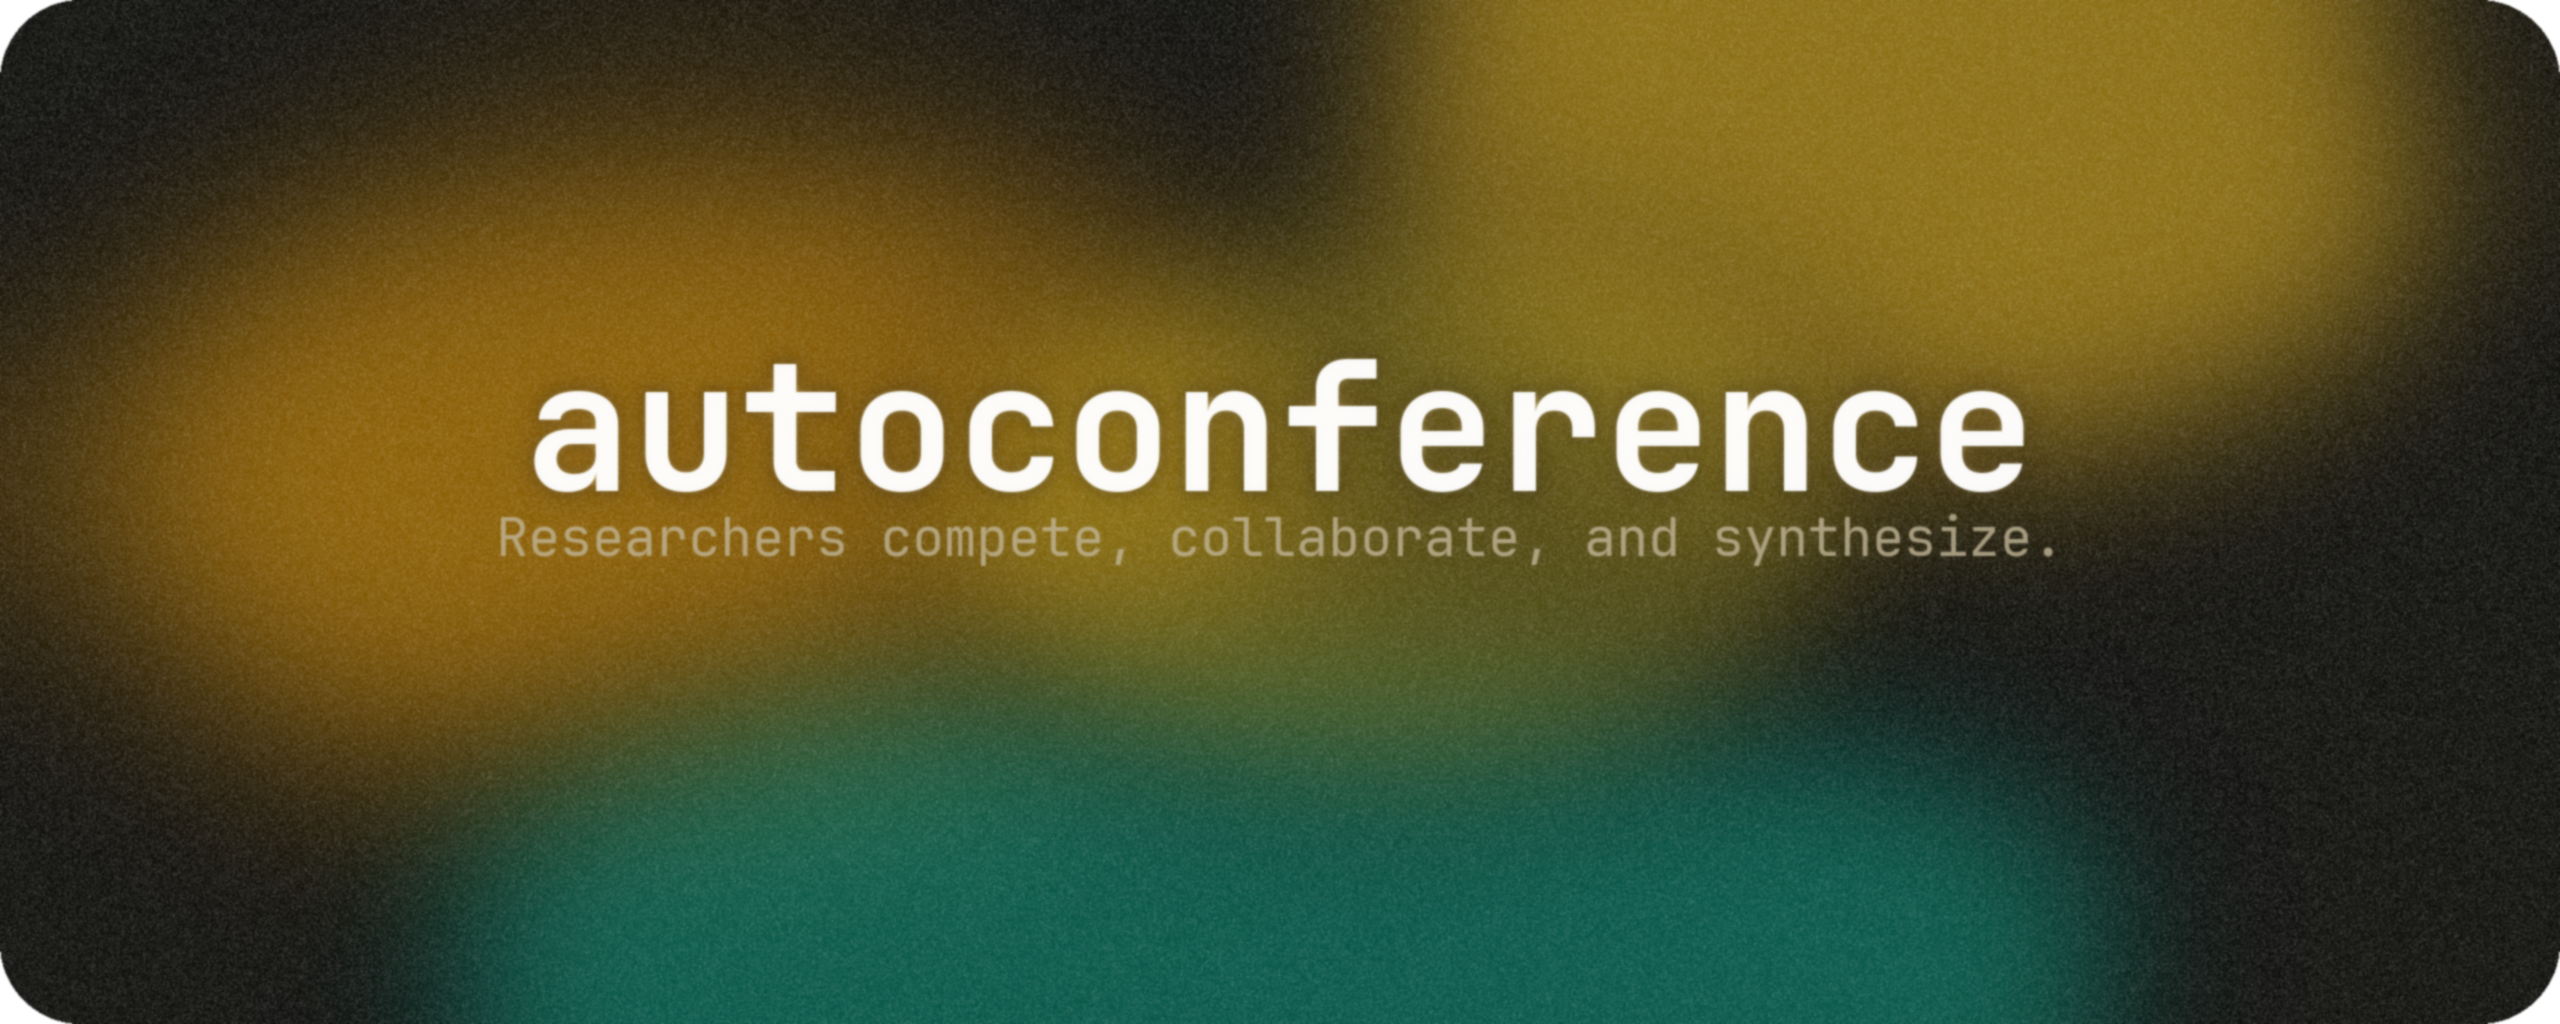
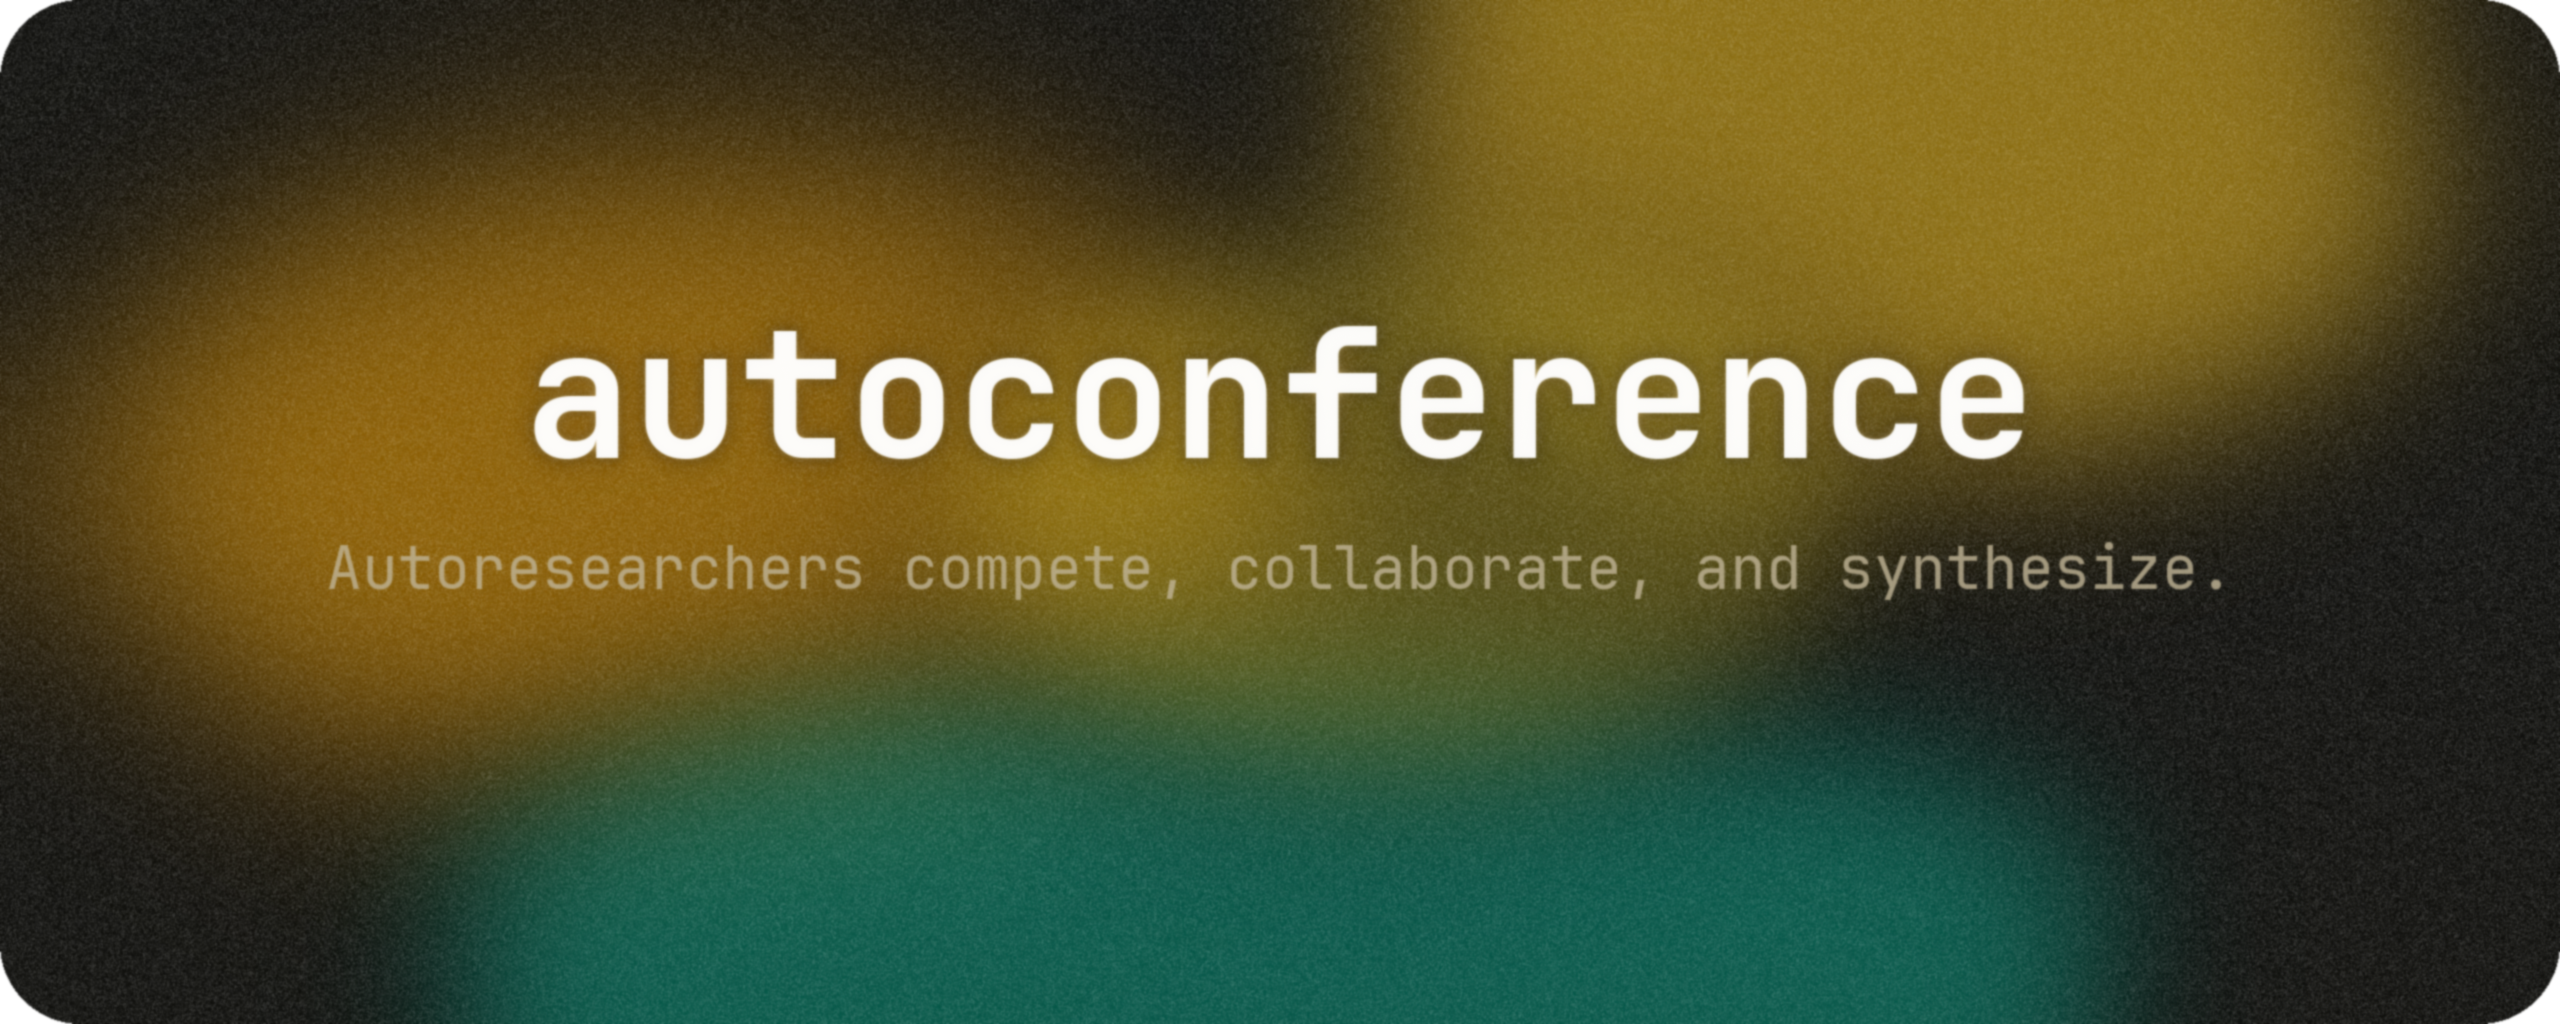
Update cover image with adjusted subtitle and spacing
Subtitle: "Autoresearchers compete, collaborate, and synthesize."
Increased gap (120px) and subtitle size (60px) for better balance.

Changed region(s): [[0.125, 0.3125, 0.875, 0.5938]]

diff --git a/generate_cover.py b/generate_cover.py
@@ -46,7 +46,7 @@ canvas = Image.alpha_composite(canvas, grain_img)
 
 # 4. Fonts
 TITLE_SIZE = 180
-SUBTITLE_SIZE = 54
+SUBTITLE_SIZE = 60 
 
 try:
     font_title = ImageFont.truetype("/Users/woojin/Library/Fonts/JetBrainsMonoNerdFont-Bold.ttf", TITLE_SIZE)
@@ -60,7 +60,7 @@ except Exception:
         font_subtitle = ImageFont.truetype("/System/Library/Fonts/Supplemental/Courier New Bold.ttf", SUBTITLE_SIZE)
 
 TITLE_TEXT = "autoconference"
-SUBTITLE_TEXT = "Researchers compete, collaborate, and synthesize."
+SUBTITLE_TEXT = "Autoresearchers compete, collaborate, and synthesize."
 
 # 5. Measure text — retry with smaller size if too wide
 tmp = Image.new("RGBA", (W, H), (0, 0, 0, 0))
@@ -85,7 +85,7 @@ s_bbox = d.textbbox((0, 0), SUBTITLE_TEXT, font=font_subtitle)
 s_w = s_bbox[2] - s_bbox[0]
 s_h = s_bbox[3] - s_bbox[1]
 
-GAP = 60
+GAP = 120 
 total_h = t_h + GAP + s_h
 block_top = (H - total_h) // 2 - 30
 title_x = (W - t_w) // 2 - t_bbox[0]
